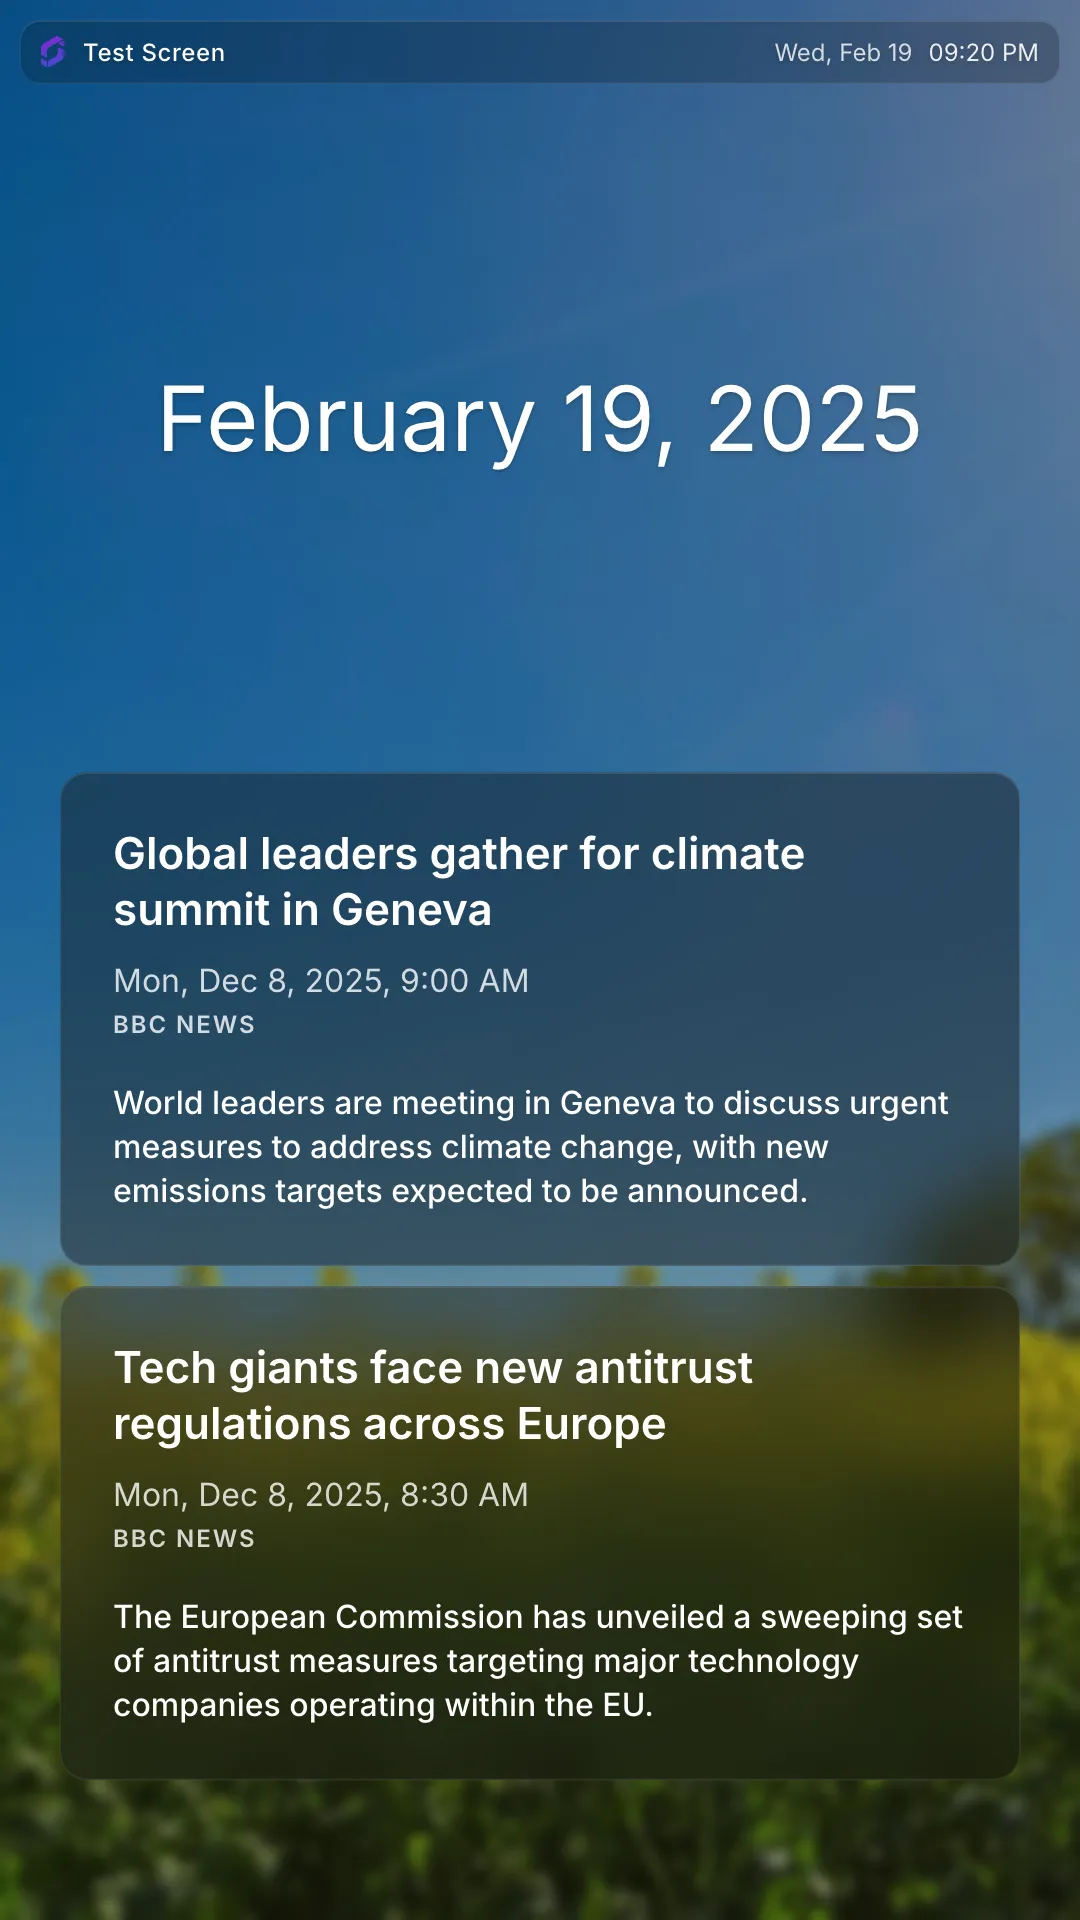
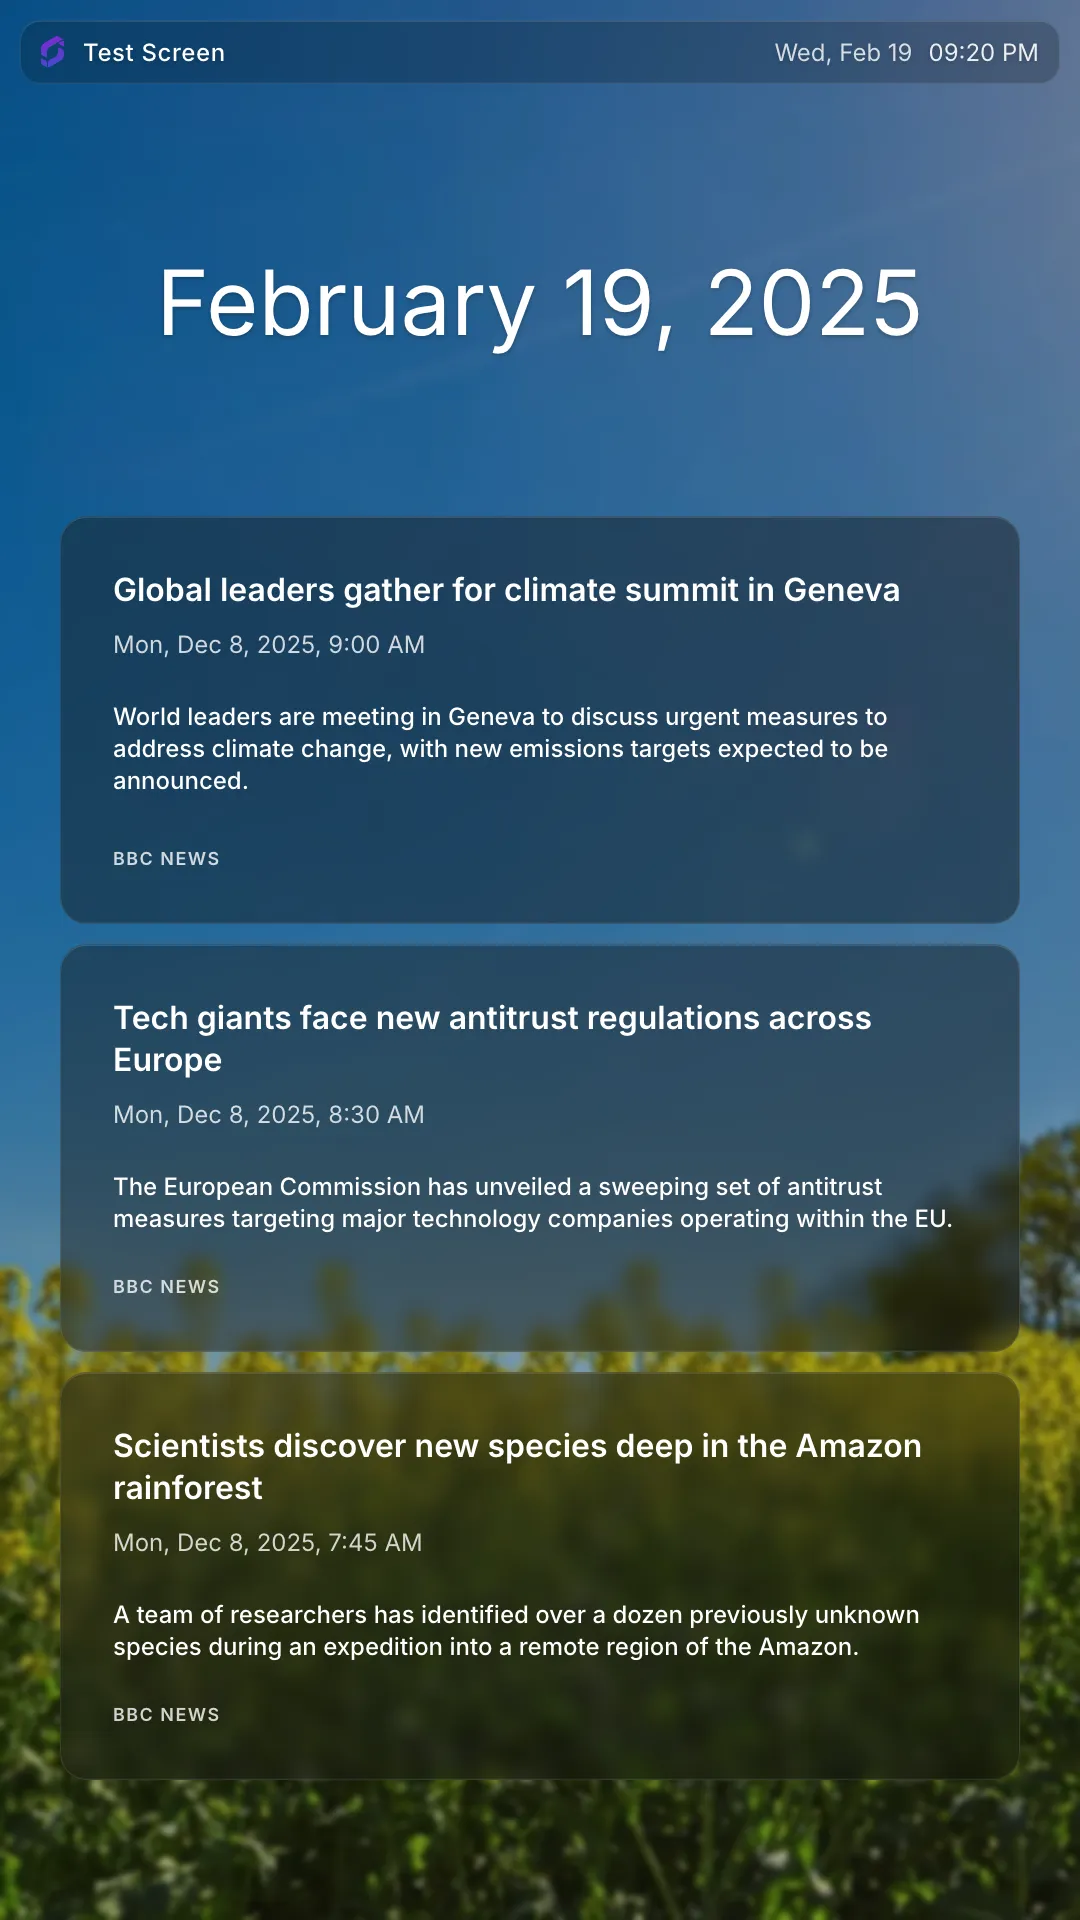
fix: adjust feed card layout and portrait styles
- Move source element outside card meta, after excerpt
- Reduce backdrop blur on body and cards
- Add flex: 1 to excerpt for even card height distribution
- Reduce portrait date padding and card font sizes
- Show up to 3 cards (was 2) in portrait layout
- Switch grid-template-rows to grid-auto-rows for portrait grid
- Update screenshots

diff --git a/src/css/style.css b/src/css/style.css
@@ -43,7 +43,7 @@ body::before {
   z-index: var(--z-index-backdrop);
   pointer-events: none;
   background: rgba(0, 0, 0, 0.2);
-  backdrop-filter: blur(7px);
+  backdrop-filter: blur(3px);
 }
 
 auto-scaler {
@@ -96,7 +96,7 @@ auto-scaler {
   background: var(--card-bg);
   border: 0.75px solid var(--card-border);
   border-radius: var(--card-radius);
-  backdrop-filter: blur(32px);
+  backdrop-filter: blur(10px);
   overflow: hidden;
   box-shadow:
     inset 0 0.75px 0 rgba(255, 255, 255, 0.15),
@@ -140,6 +140,7 @@ auto-scaler {
 }
 
 .feed-card-excerpt {
+  flex: 1;
   margin: 0;
   font-size: 1.042rem;
   font-weight: 500;
@@ -171,7 +172,7 @@ auto-scaler {
   }
 
   .feed-date {
-    padding: 17.25rem 2.5rem 0;
+    padding: 10rem 2.5rem 0;
     font-size: 5.625rem;
     line-height: 7.375rem;
     white-space: normal;
@@ -181,7 +182,7 @@ auto-scaler {
     flex: unset;
     margin-top: auto;
     grid-template-columns: 1fr;
-    grid-template-rows: none;
+    grid-auto-rows: 1fr;
     align-content: start;
     padding: 3.75rem 2.5rem 7.5rem;
   }
@@ -191,30 +192,30 @@ auto-scaler {
     padding: 3.25rem;
   }
 
-  .feed-card:nth-child(n + 3) {
+  .feed-card:nth-child(n + 4) {
     display: none;
   }
 
   .feed-card-title {
-    font-size: 2.75rem;
-    line-height: 3.5rem;
-    -webkit-line-clamp: 3;
+    font-size: 2rem;
+    line-height: 2.625rem;
+    -webkit-line-clamp: 2;
   }
 
   .feed-card-date {
-    margin-top: 1rem;
-    font-size: 2rem;
-    line-height: 2.75rem;
-  }
-
-  .feed-card-source {
+    margin-top: 0.75rem;
     font-size: 1.5rem;
     line-height: 2rem;
   }
 
+  .feed-card-source {
+    font-size: 1.125rem;
+    line-height: 1.5rem;
+  }
+
   .feed-card-excerpt {
-    font-size: 2rem;
-    line-height: 2.75rem;
-    -webkit-line-clamp: 5;
+    font-size: 1.5rem;
+    line-height: 2rem;
+    -webkit-line-clamp: 3;
   }
 }

diff --git a/index.html b/index.html
@@ -20,9 +20,9 @@
             <div class="feed-card-meta">
               <h2 class="feed-card-title"></h2>
               <time class="feed-card-date"></time>
-              <span class="feed-card-source"></span>
             </div>
             <p class="feed-card-excerpt"></p>
+            <span class="feed-card-source"></span>
           </article>
         </template>
 
